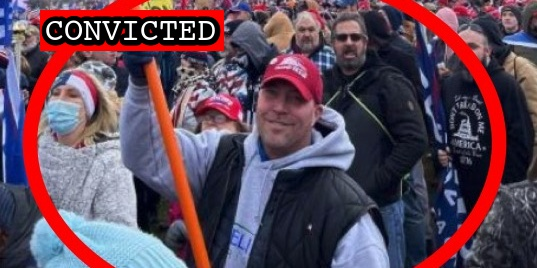
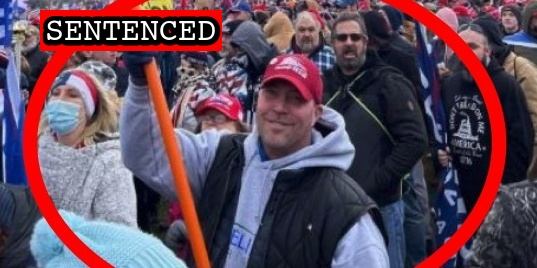
Conviction plus data fix

Changed region(s): [[0.0596, 0.0597, 0.3277, 0.1791], [0.3873, 0.0299, 0.4171, 0.1791]]

diff --git a/docs/_suspects/kasey-hopkins.md b/docs/_suspects/kasey-hopkins.md
@@ -4,13 +4,13 @@ lastName: Hopkins
 hashtag:
 aka:
 residence: Kansas
-status: Convicted
+status: Sentenced
 date: 2022-08-04
 charged: 2022-08-04
 indicted:
 convicted: 2022-12-20
 acquitted:
-sentenced:
+sentenced: 2023-04-10
 dismissed:
 deceased:
 plea_hearing: 2022-12-20
@@ -41,12 +41,16 @@ caseName: USA v. HOPKINS
 judge: Tanya S. Chutkan
 videos:
 charges:
-- code: 40 USC § 5104(e)(2)(G)
-  title: Parading, demonstrating or picketing in a Capitol building
-  url: https://www.law.cornell.edu/uscode/text/40/5104
-  felony: false
+  - code: 40 USC § 5104(e)(2)(G)
+    title: Parading, demonstrating or picketing in a Capitol building
+    url: https://www.law.cornell.edu/uscode/text/40/5104
+    felony: false
 sentence:
+  - 4 months incarceration
+  - 2 years probation
+  - $500 restitution
 ---
+
 - [News Report](https://www.kshb.com/news/crime/kansas-city-kansas-man-arrested-charged-for-entering-u-s-capitol-during-jan-6-riot)
 - [Complaint](https://www.justice.gov/usao-dc/case-multi-defendant/file/1524376/download)
 - [Statement of Facts](https://www.justice.gov/usao-dc/case-multi-defendant/file/1524381/download)

diff --git a/docs/_suspects/richard-escalera.md b/docs/_suspects/richard-escalera.md
@@ -8,12 +8,12 @@ status: Convicted
 date: 2022-10-20
 charged: 2022-10-20
 indicted:
-convicted: 2023-004-06
+convicted: 2023-04-06
 acquitted:
 sentenced:
 dismissed:
 deceased:
-plea_hearing: 2023-004-06
+plea_hearing: 2023-04-06
 trial_date:
 trial_type:
 jury_selection:
@@ -41,12 +41,13 @@ caseName: USA v. ESCALERA
 judge: Amit P. Mehta
 videos:
 charges:
-- code: 40 USC § 5104(e)(2)(G)
-  title: Parading, demonstrating or picketing in a Capitol building
-  url: https://www.law.cornell.edu/uscode/text/40/5104
-  felony: false
+  - code: 40 USC § 5104(e)(2)(G)
+    title: Parading, demonstrating or picketing in a Capitol building
+    url: https://www.law.cornell.edu/uscode/text/40/5104
+    felony: false
 sentence:
 ---
+
 - [Complaint](https://www.justice.gov/usao-dc/case-multi-defendant/file/1546276/download)
 - [Statement of Facts](https://www.justice.gov/usao-dc/case-multi-defendant/file/1546281/download)
 - [Plea Agreement](https://storage.courtlistener.com/recap/gov.uscourts.dcd.249327/gov.uscourts.dcd.249327.26.0.pdf)
